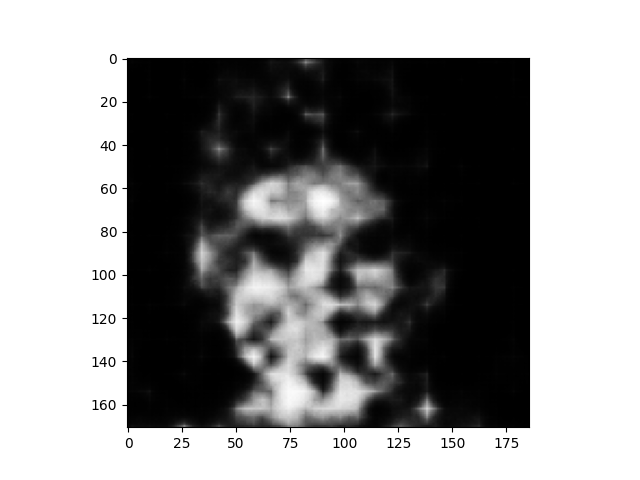
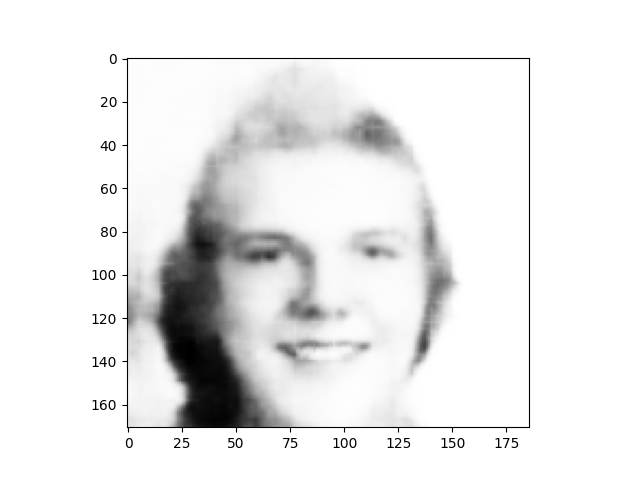
,

diff --git a/model.py b/model.py
@@ -5,10 +5,10 @@ import torch.optim as optim
 
 import pytorch_lightning as pl
 
-LATENT_DIM = 128
+LATENT_DIM = 64
 
 # hyperparameters
-lr = 1e-5
+lr = 1e-3
 weight_decay = 1e-3
 
 class Autoencoder(pl.LightningModule):
@@ -16,51 +16,50 @@ class Autoencoder(pl.LightningModule):
         super().__init__()
 
         self.convnet1 = nn.Sequential(
-            nn.Conv2d(in_channels=1, out_channels=128,
-                      kernel_size=3, stride=2, padding=3),
+            nn.Conv2d(in_channels=1, out_channels=32,
+                      kernel_size=5, stride=3, padding=3),
             nn.ReLU()
         )
 
         self.convnet2 = nn.Sequential(
-            nn.Conv2d(in_channels=128, out_channels=128,
-                      kernel_size=3, stride=2, padding=3),
+            nn.Conv2d(in_channels=32, out_channels=64,
+                      kernel_size=5, stride=3, padding=3),
             nn.ReLU()
         )
 
         self.convnet3 = nn.Sequential(
-            nn.Conv2d(in_channels=128, out_channels=256,
-                      kernel_size=3, stride=2, padding=3),
+            nn.Conv2d(in_channels=64, out_channels=128,
+                      kernel_size=5, stride=3, padding=3),
             nn.ReLU()
         )
 
         self.bottleneck = nn.Sequential(
             nn.Flatten(),
-            nn.Dropout(p=0.5),
-            nn.Linear(in_features=172800, out_features=LATENT_DIM),
+            nn.Linear(in_features=8192, out_features=LATENT_DIM),
             nn.ReLU()
         )
 
 
         self.unbottleneck = nn.Sequential(
-            nn.Linear(in_features=LATENT_DIM, out_features=172800),
+            nn.Linear(in_features=LATENT_DIM, out_features=8192),
             nn.ReLU()
         )
 
         self.deconvnet1 = nn.Sequential(
-            nn.ConvTranspose2d(in_channels=256, out_channels=128,
-                               kernel_size=3, stride=2, padding=3, output_padding=(1, 1)),
+            nn.ConvTranspose2d(in_channels=128, out_channels=64,
+                               kernel_size=5, stride=3, padding=3, output_padding=(0, 2)),
             nn.ReLU()
         )
 
         self.deconvnet2 = nn.Sequential(
-            nn.ConvTranspose2d(in_channels=128, out_channels=128,
-                               kernel_size=3, stride=2, padding=3, output_padding=(1, 0)),
+            nn.ConvTranspose2d(in_channels=64, out_channels=32,
+                               kernel_size=5, stride=3, padding=3, output_padding=(2, 1)),
             nn.ReLU()
         )
 
         self.deconvnet3 = nn.Sequential(
-            nn.ConvTranspose2d(in_channels=128, out_channels=1,
-                               kernel_size=3, stride=2, padding=3, output_padding=(0, 1)),
+            nn.ConvTranspose2d(in_channels=32, out_channels=1,
+                               kernel_size=5, stride=3, padding=3, output_padding=(1, 1)),
             nn.Sigmoid()
         )
         self.example_input_array = torch.zeros(2, 1, 171, 186)
@@ -73,27 +72,25 @@ class Autoencoder(pl.LightningModule):
     def encode(self, x):
         #[bash_size, 1, 171, 186]
         out = self.convnet1(x)
-        #[bash_size, 128, 88, 95]
+        #[bash_size, 32, 58, 63]
         out = self.convnet2(out)
-        #[bash_size, 128, 46, 50]
+        #[bash_size, 64, 20, 22]
         out = self.convnet3(out)
-        #[bash_size, 256, 25, 27]
+        #[bash_size, 128, 8, 8]
         out = self.bottleneck(out)
-        #[bash_size, 64]
+        #[bash_size, 128]
         return out
 
     def decode(self, x):
-
         out = self.unbottleneck(x)
-
-        out = out.reshape(out.shape[0], 256, 25, 27)
-        #[bash_size, 256, 25, 27]
+        out = out.reshape(out.shape[0], 128, 8, 8)
+        #[bash_size, 128, 8, 8]
         out = self.deconvnet1(out)
-        #[bash_size, 128, 46, 50]
+        #[bash_size, 64, 20, 22]
         out = self.deconvnet2(out)
-        #[bash_size, 128, 88, 95]
+        #[bash_size, 32, 58, 63]
         out = self.deconvnet3(out)
-        #[bash_size, 128, 171, 186]
+        #[bash_size, 1, 171, 186]
 
         return out
 

diff --git a/face_gen.py b/face_gen.py
@@ -4,7 +4,7 @@ import numpy as np
 
 device = torch.device("cuda")
 
-num_faces = 200
+num_faces = 10
 
 # load trained model
 model = Autoencoder()
@@ -24,7 +24,6 @@ i = 0
 for data in data_loader:
     x_data = data[0].float()
     x_data = x_data.to(device)
-
     temp = model.encode(x_data)
     temp = temp.cpu().detach().numpy()
     x_enc[i:i+temp.shape[0], :] = temp 

diff --git a/train.py b/train.py
@@ -16,8 +16,8 @@ from pytorch_lightning.callbacks.early_stopping import EarlyStopping
 from model import *
 
 # hyperparameters
-batch_size = 8
-epochs = 100
+batch_size = 64
+epochs = 1000
 
 
 def recontruct_image(x_train, x_test, model):
